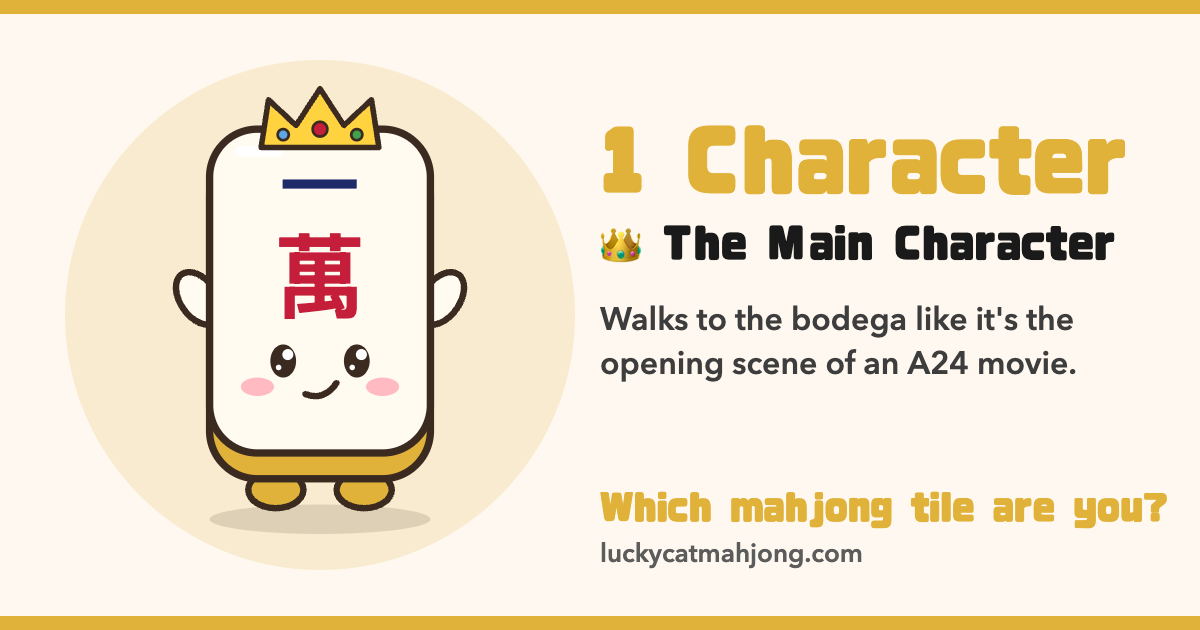
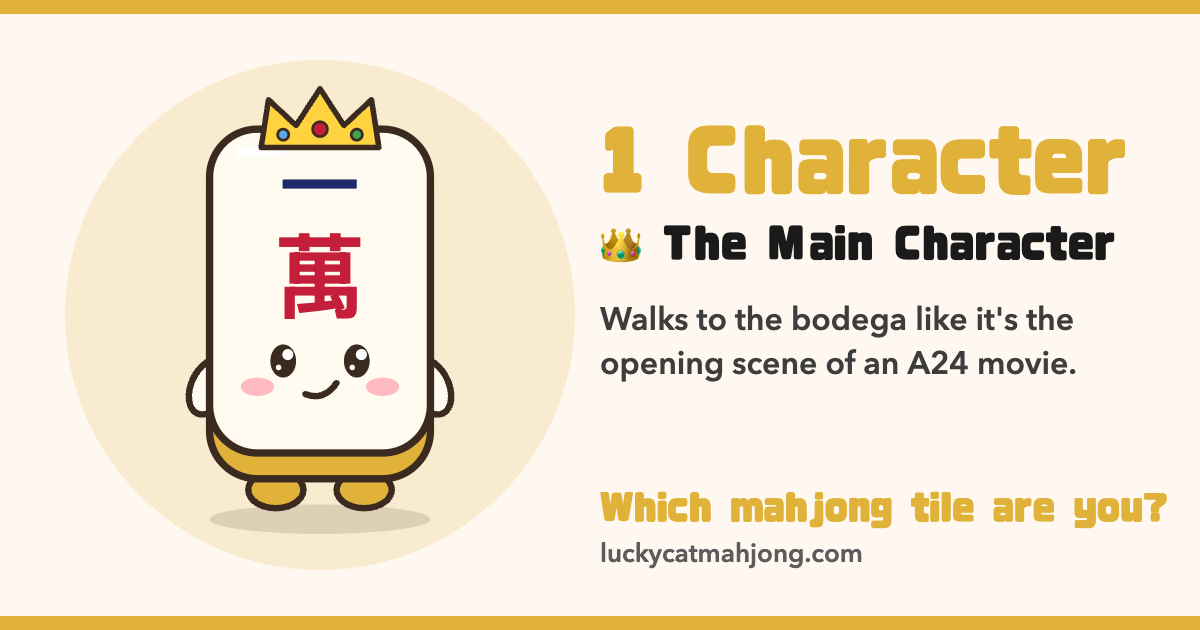
Lower every tile's raised arms to the resting position
All 22 quiz tiles now draw the same resting arms, so the arm poses are
gone. Regenerated the eight link previews that had an arm raised.

diff --git a/js/tile-quiz-art.js b/js/tile-quiz-art.js
@@ -12,28 +12,28 @@
   var CJK_FONT = "'KN Yuanmo SC','PingFang SC','Hiragino Sans GB','Microsoft YaHei','Noto Sans SC',sans-serif";
 
   var ART = {
-    'one-bamboo': { back: '#3FA34D', symbol: 'bird', eyes: 'sparkle', mouth: 'open', arms: 'wave', acc: ['bubble'] },
-    'nine-bamboo': { back: '#2E7D5B', symbol: 'bamboo9', eyes: 'dot', mouth: 'smile', arms: 'rest', acc: ['squareGlasses', 'clipboard'] },
-    'one-character': { back: '#E0B23A', symbol: 'char1', eyes: 'sparkle', mouth: 'smirk', arms: 'cheer', acc: ['crown'] },
-    'nine-character': { back: '#E66A9A', symbol: 'char9', eyes: 'star', mouth: 'open', arms: 'rest', acc: ['shoppingBags'] },
-    'one-dot': { back: '#E8964A', symbol: 'dot1', eyes: 'happy', mouth: 'cat', arms: 'rest', acc: ['boba'] },
-    'nine-dot': { back: '#5C6BC0', symbol: 'dot9', eyes: 'spiral', mouth: 'wobble', arms: 'rest', acc: ['sweat', 'thoughtCloud'] },
-    'green-dragon': { back: '#1F8A4C', symbol: 'greenDragon', eyes: 'money', mouth: 'open', arms: 'rest', acc: ['moneyBag'] },
-    'red-dragon': { back: '#C41E3A', symbol: 'redDragon', eyes: 'none', mouth: 'smirk', arms: 'cheer', acc: ['shades', 'sparkles'] },
-    'white-dragon': { back: '#7FA7D9', symbol: 'whiteDragon', eyes: 'calm', mouth: 'smile', arms: 'rest', acc: ['clawClip', 'sparkles'] },
-    'east-wind': { back: '#F4A020', symbol: 'east', eyes: 'sparkle', mouth: 'open', arms: 'cheer', acc: ['sunHalo'] },
-    'south-wind': { back: '#D99A5B', symbol: 'south', eyes: 'happy', mouth: 'tongue', arms: 'cheer', acc: ['dogEars'] },
-    'west-wind': { back: '#F27C6B', symbol: 'west', eyes: 'heart', mouth: 'smile', arms: 'rest', acc: ['hearts'] },
-    'north-wind': { back: '#4A7FC1', symbol: 'north', eyes: 'half', mouth: 'flat', arms: 'rest', acc: ['headphones', 'snowflake'] },
-    'spring': { back: '#F49AB5', symbol: 'spring', eyes: 'sparkle', mouth: 'open', arms: 'wave', acc: ['flowerCrown'] },
-    'summer': { back: '#2BB3C0', symbol: 'summer', eyes: 'wink', mouth: 'tongue', arms: 'wave', acc: ['sunHat'] },
-    'autumn': { back: '#C8642E', symbol: 'autumn', eyes: 'happy', mouth: 'cat', arms: 'rest', acc: ['scarf', 'coffee'] },
-    'winter': { back: '#6C8EDB', symbol: 'winter', eyes: 'sleepy', mouth: 'o', arms: 'rest', acc: ['beanie', 'zzz'] },
-    'plum-blossom': { back: '#D94A6B', symbol: 'plum', eyes: 'sparkle', mouth: 'smile', arms: 'cheer', acc: ['bandaid', 'sparkles'] },
-    'orchid': { back: '#A578D6', symbol: 'orchid', eyes: 'lashes', mouth: 'smile', arms: 'rest', acc: ['bow'] },
-    'chrysanthemum': { back: '#D9A521', symbol: 'chrysanthemum', eyes: 'happy', mouth: 'smile', arms: 'rest', acc: ['roundGlasses', 'teacup'] },
-    'bamboo': { back: '#5FA83A', symbol: 'bambooFlower', eyes: 'panda', mouth: 'cat', arms: 'rest', acc: ['pandaEars', 'bambooStick'] },
-    'blank-tile': { back: '#B9B2A6', symbol: 'blank', eyes: 'dot', mouth: 'flat', arms: 'rest', acc: ['sweat', 'question'] },
+    'one-bamboo': { back: '#3FA34D', symbol: 'bird', eyes: 'sparkle', mouth: 'open', acc: ['bubble'] },
+    'nine-bamboo': { back: '#2E7D5B', symbol: 'bamboo9', eyes: 'dot', mouth: 'smile', acc: ['squareGlasses', 'clipboard'] },
+    'one-character': { back: '#E0B23A', symbol: 'char1', eyes: 'sparkle', mouth: 'smirk', acc: ['crown'] },
+    'nine-character': { back: '#E66A9A', symbol: 'char9', eyes: 'star', mouth: 'open', acc: ['shoppingBags'] },
+    'one-dot': { back: '#E8964A', symbol: 'dot1', eyes: 'happy', mouth: 'cat', acc: ['boba'] },
+    'nine-dot': { back: '#5C6BC0', symbol: 'dot9', eyes: 'spiral', mouth: 'wobble', acc: ['sweat', 'thoughtCloud'] },
+    'green-dragon': { back: '#1F8A4C', symbol: 'greenDragon', eyes: 'money', mouth: 'open', acc: ['moneyBag'] },
+    'red-dragon': { back: '#C41E3A', symbol: 'redDragon', eyes: 'none', mouth: 'smirk', acc: ['shades', 'sparkles'] },
+    'white-dragon': { back: '#7FA7D9', symbol: 'whiteDragon', eyes: 'calm', mouth: 'smile', acc: ['clawClip', 'sparkles'] },
+    'east-wind': { back: '#F4A020', symbol: 'east', eyes: 'sparkle', mouth: 'open', acc: ['sunHalo'] },
+    'south-wind': { back: '#D99A5B', symbol: 'south', eyes: 'happy', mouth: 'tongue', acc: ['dogEars'] },
+    'west-wind': { back: '#F27C6B', symbol: 'west', eyes: 'heart', mouth: 'smile', acc: ['hearts'] },
+    'north-wind': { back: '#4A7FC1', symbol: 'north', eyes: 'half', mouth: 'flat', acc: ['headphones', 'snowflake'] },
+    'spring': { back: '#F49AB5', symbol: 'spring', eyes: 'sparkle', mouth: 'open', acc: ['flowerCrown'] },
+    'summer': { back: '#2BB3C0', symbol: 'summer', eyes: 'wink', mouth: 'tongue', acc: ['sunHat'] },
+    'autumn': { back: '#C8642E', symbol: 'autumn', eyes: 'happy', mouth: 'cat', acc: ['scarf', 'coffee'] },
+    'winter': { back: '#6C8EDB', symbol: 'winter', eyes: 'sleepy', mouth: 'o', acc: ['beanie', 'zzz'] },
+    'plum-blossom': { back: '#D94A6B', symbol: 'plum', eyes: 'sparkle', mouth: 'smile', acc: ['bandaid', 'sparkles'] },
+    'orchid': { back: '#A578D6', symbol: 'orchid', eyes: 'lashes', mouth: 'smile', acc: ['bow'] },
+    'chrysanthemum': { back: '#D9A521', symbol: 'chrysanthemum', eyes: 'happy', mouth: 'smile', acc: ['roundGlasses', 'teacup'] },
+    'bamboo': { back: '#5FA83A', symbol: 'bambooFlower', eyes: 'panda', mouth: 'cat', acc: ['pandaEars', 'bambooStick'] },
+    'blank-tile': { back: '#B9B2A6', symbol: 'blank', eyes: 'dot', mouth: 'flat', acc: ['sweat', 'question'] },
   };
 
   var BACK_ACCESSORIES = { sunHalo: true, pandaEars: true, dogEars: true, headphonesBand: true };
@@ -305,10 +305,8 @@
     return '<ellipse ' + attrs({ cx: cx, cy: cy, rx: 10, ry: 16, fill: fill, transform: 'rotate(' + rot + ' ' + cx + ' ' + cy + ')' }) + ' ' + stroke(3.5) + '/>';
   }
 
-  function arms(pose) {
-    var left = pose === 'cheer' ? arm(34, 116, -35, FACE) : arm(40, 164, 25, FACE);
-    var right = pose === 'cheer' || pose === 'wave' ? arm(166, 116, 35, FACE) : arm(160, 164, -25, FACE);
-    return left + right;
+  function arms() {
+    return arm(40, 164, 25, FACE) + arm(160, 164, -25, FACE);
   }
 
   var ACCESSORIES = {
@@ -494,7 +492,7 @@
     return '<svg xmlns="http://www.w3.org/2000/svg" viewBox="0 0 200 250"' + size + ' class="' + (opts.className || 'tile-art') + '" ' + a11y + '>' + label +
       '<ellipse cx="100" cy="236" rx="60" ry="8" fill="rgba(59,42,32,0.14)"/>' +
       renderAccessories(spec.acc, true) +
-      arms(spec.arms) +
+      arms() +
       '<ellipse cx="76" cy="220" rx="15" ry="10" fill="' + spec.back + '" ' + stroke(3.5) + '/>' +
       '<ellipse cx="124" cy="220" rx="15" ry="10" fill="' + spec.back + '" ' + stroke(3.5) + '/>' +
       '<rect x="40" y="34" width="120" height="180" rx="26" fill="' + spec.back + '" ' + stroke(4) + '/>' +
